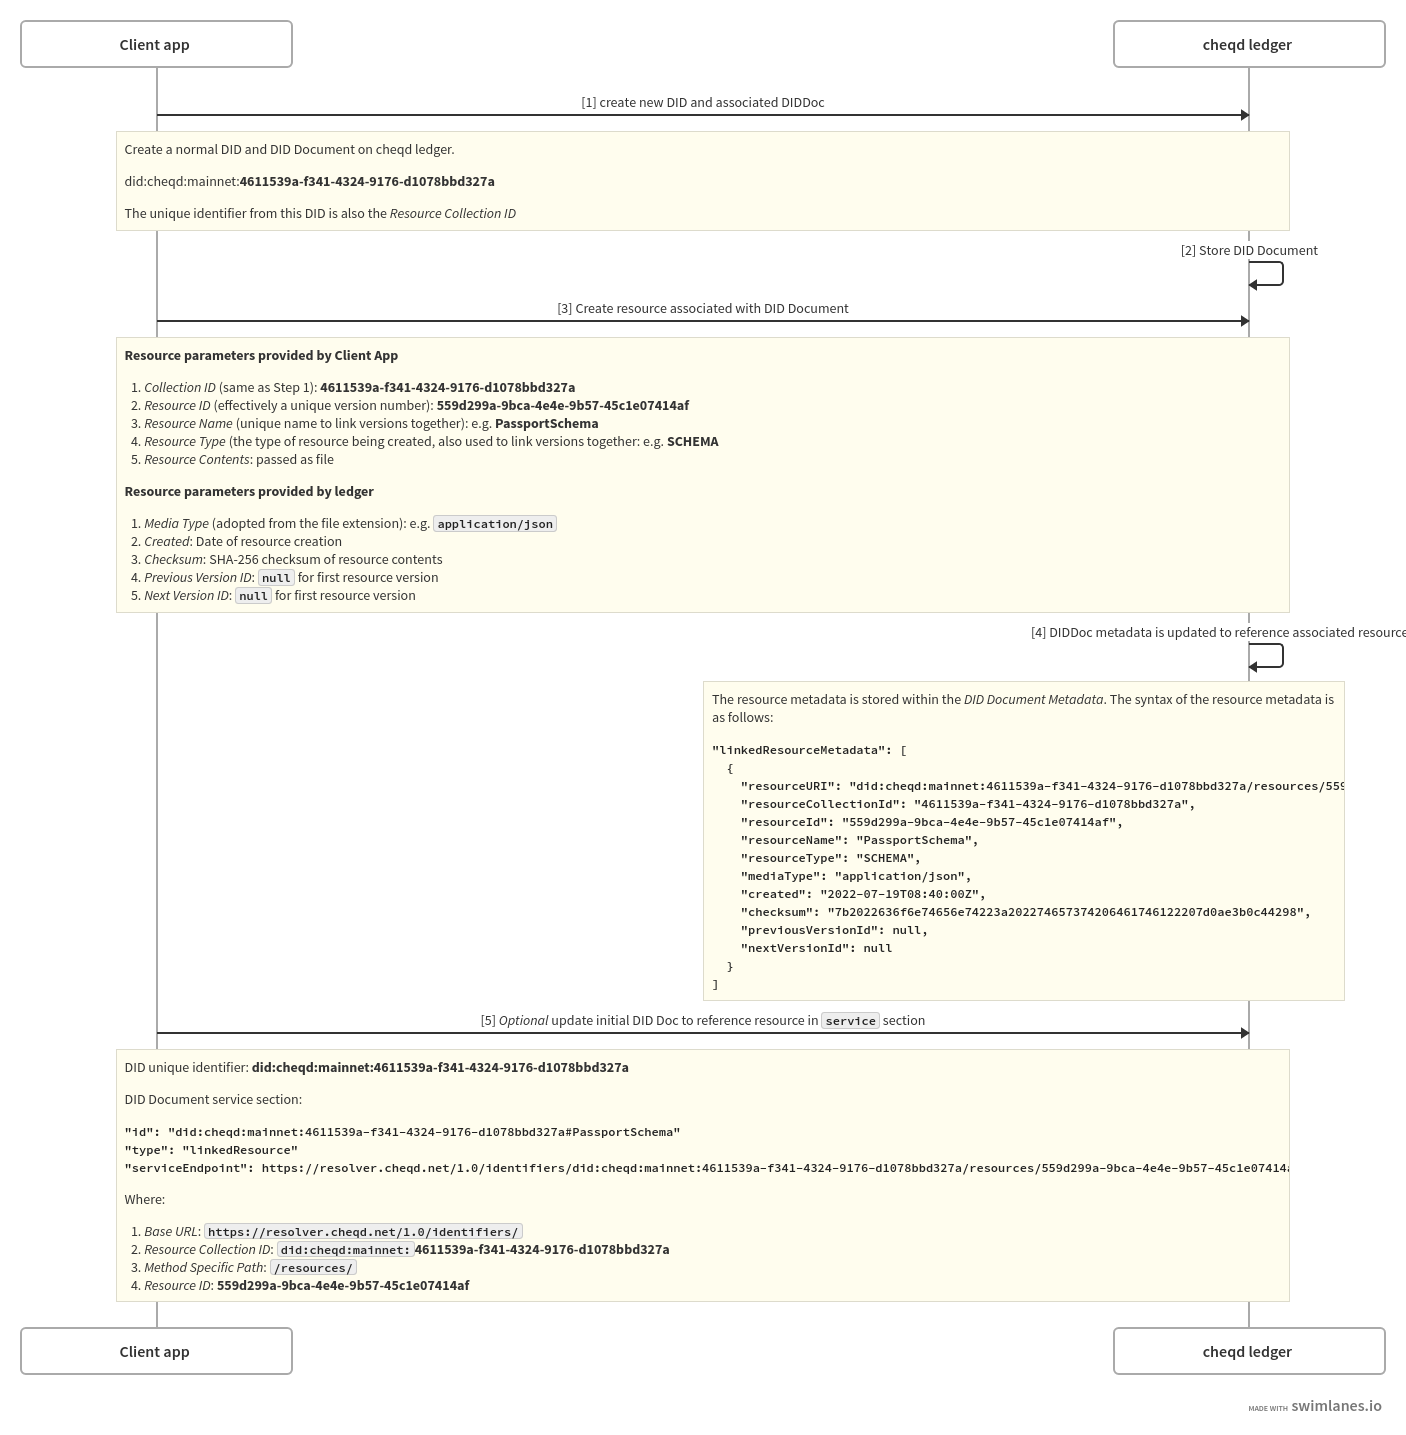
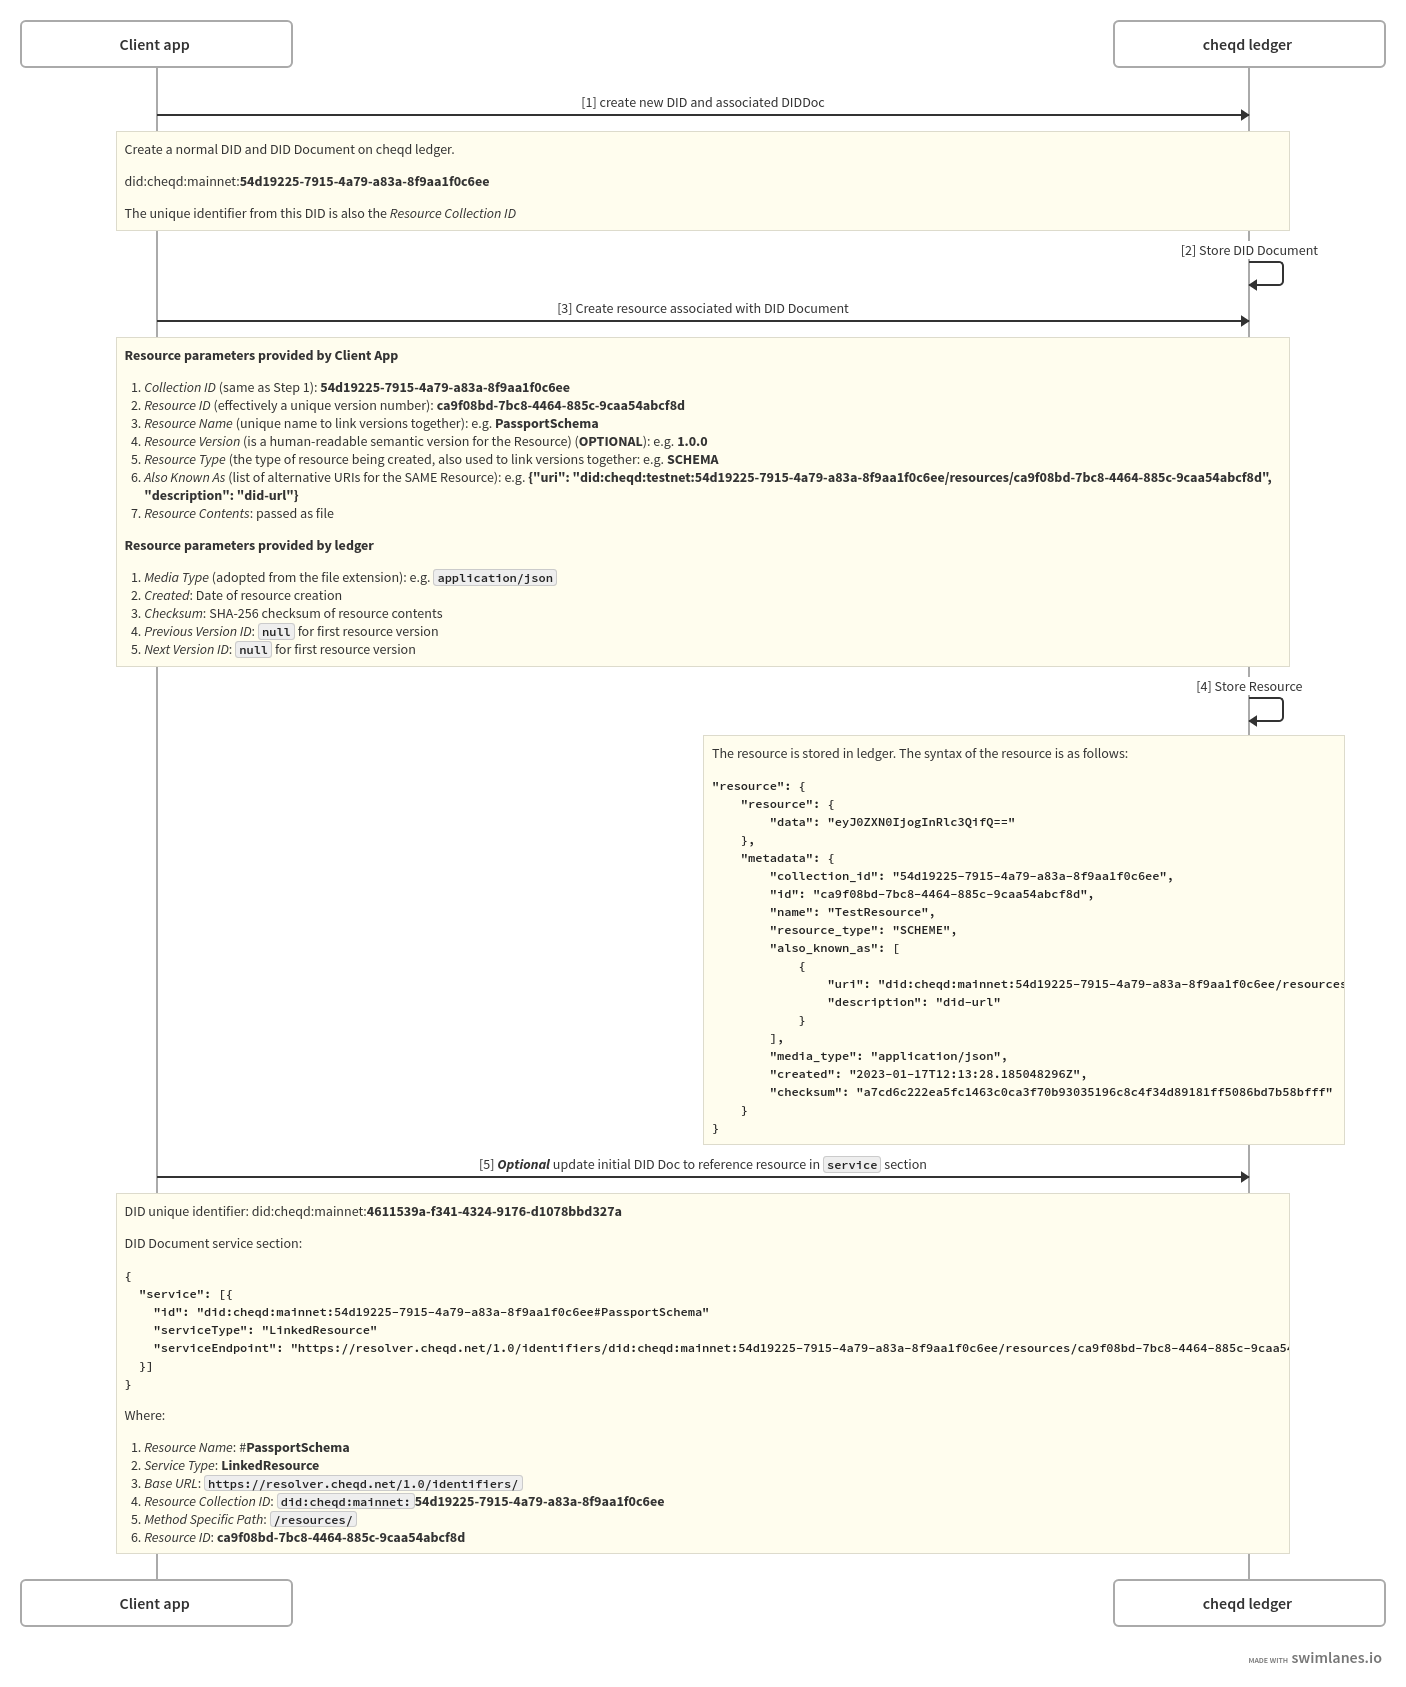
Update "Overview of Resource and Resource Collection creation" diagram

diff --git a/architecture/adr-list/adr-008-ledger-resources.md b/architecture/adr-list/adr-008-ledger-resources.md
@@ -4,11 +4,11 @@
 
 | Category | Status |
 | :--- | :--- |
-| **Authors** | Ankur Banerjee, Alexandr Kolesov, Alex Tweeddale, Renata Toktar   |
+| **Authors** | Ankur Banerjee, Abdulla Ashurov, Alexandr Kolesov, Alex Tweeddale, Renata Toktar   |
 | **ADR Stage** | ACCEPTED |
 | **Implementation Status** | Implemented |
 | **Start Date** | 2021-09-23 |
-| **Last Updated** | 2022-09-28 |
+| **Last Updated** | 2023-01-19 |
 
 ## Summary
 
@@ -106,56 +106,13 @@ Resources on cheqd ledger are collated under *Resource Collections*, which are d
 
 ![Simplified on-ledger Resource creation flow on cheqd network](../../.gitbook/assets/adr008-resource-flow-simplified.png)
 
-*Figure 4: Overview of Resource and Resource Collection creation ([editable version](https://swimlanes.io/u/GI-Jxpnr5))*
+*Figure 4: Overview of Resource and Resource Collection creation ([editable version](https://swimlanes.io/u/x2fQLlEM2))*
 
 To create a new Resource, a client application first needs to create a DID (or use an existing not [deactivated](adr-002-cheqd-did-method.md#deactivate-did) DID) along with its associated DIDDoc. This *resource-linked DID* is the lowest, direct level of create/update/deactivate operation control that exists.
 
 Individual Resources are uniquely identified by a common *Resource Name* and common *Resource Type* that MUST remain consistent across versions. The specific *version number* of a Resource is described using the *Resource ID*, which is a [Universally-Unique Identifier (UUID)](https://en.wikipedia.org/wiki/Universally_unique_identifier). Since UUIDs can be generated by *any* compatible software library, client applications are able to define this version number independent of the cheqd ledger. (This same technique and rationale is described in [ADR-002: cheqd DID method](adr-002-cheqd-did-method.md)).
 
 This allows a *specific* Resource version to be referenced in a Verifiable Credential, as well as allowing client applications to query historical/updated Resource versions along with metadata that describes how the Resource evolved within a Resource Collection.
-
-### Discoverability via DIDDoc Metadata
-
-Once a Resource has been created under a Resource Collection, the parent DIDDoc will automatically have an updated *didDocumentMetadata* section, including *linkedResourceMetadata*.
-
-The syntax of the linked Resource metadata is as follows:
-
-```jsonc
-"didDocumentMetadata": {
-    "created": "2020-12-20T19:17:47Z",
-    "updated": "2020-12-20T19:19:47Z",
-    "deactivated": false,
[1 lines of base64/hex data omitted]
-    "linkedResourceMetadata": [
-      { // First version of a Resource called PassportSchema
-        "resourceURI": "did:cheqd:testnet:DAzMQo4MDMxCjgwM/resources/44547089-170b-4f5a-bcbc-06e46e0089e4",
-        "resourceCollectionId": "DAzMQo4MDMxCjgwM", // Common collection ID
-        "resourceId": "44547089-170b-4f5a-bcbc-06e46e0089e4", // Old Resource ID and version number
-        "resourceName": "PassportSchema", // Resource name must remain the same
-        "resourceType": "CL-Schema", // Resource type must remain the same
-        "mediaType": "application/json",
-        "created": "2022-07-19T08:40:00Z",
[1 lines of base64/hex data omitted]
-        "previousVersionId": null, // null, since no previous version
-        "nextVersionId": "bb2118f3-5e55-4510-b420-33ef9e1726d2", // Points to next version below
-        },
-      { // Second version of a Resource called PassportSchema
-        "resourceURI": "did:cheqd:testnet:DAzMQo4MDMxCjgwM/resources/bb2118f3-5e55-4510-b420-33ef9e1726d2",
-        "resourceCollectionId": "DAzMQo4MDMxCjgwM", // Common collection ID
-        "resourceId": "bb2118f3-5e55-4510-b420-33ef9e1726d2", // New Resource ID and version number
-        "resourceName": "PassportSchema", // Resource name must remain the same
-        "resourceType": "CL-Schema", // Resource type must remain the same
-        "mediaType": "application/json",
-        "created": "2022-08-07T08:40:00Z",
[1 lines of base64/hex data omitted]
-        "previousVersionId": "44547089-170b-4f5a-bcbc-06e46e0089e4", // Points to previous version above
-        "nextVersionId": null // null if no new version
-        }
-      ]
-    }
-```
-
-Importantly, we decided not to populate the actual resource data into the didDocumentMetadata, but instead, what we refer to as a *Resource Preview* which contains all the metadata about the associated resources.
 
 ### *Optional* Discoverability via DIDDoc Services
 
@@ -177,7 +134,7 @@ The rationale for linking to Resources in this manner, instead of creating a new
   {
     "service": [{
       "id":"did:cheqd:testnet:DAzMQo4MDMxCjgwM#PassportSchema",
-      "type": "LinkedResource",
+      "serviceType": "LinkedResource",
       "serviceEndpoint": "https://resolver.cheqd.net/1.0/identifiers/did:cheqd:testnet:DAzMQo4MDMxCjgwM/resources/bb2118f3-5e55-4510-b420-33ef9e1726d2"
     }]
   }
